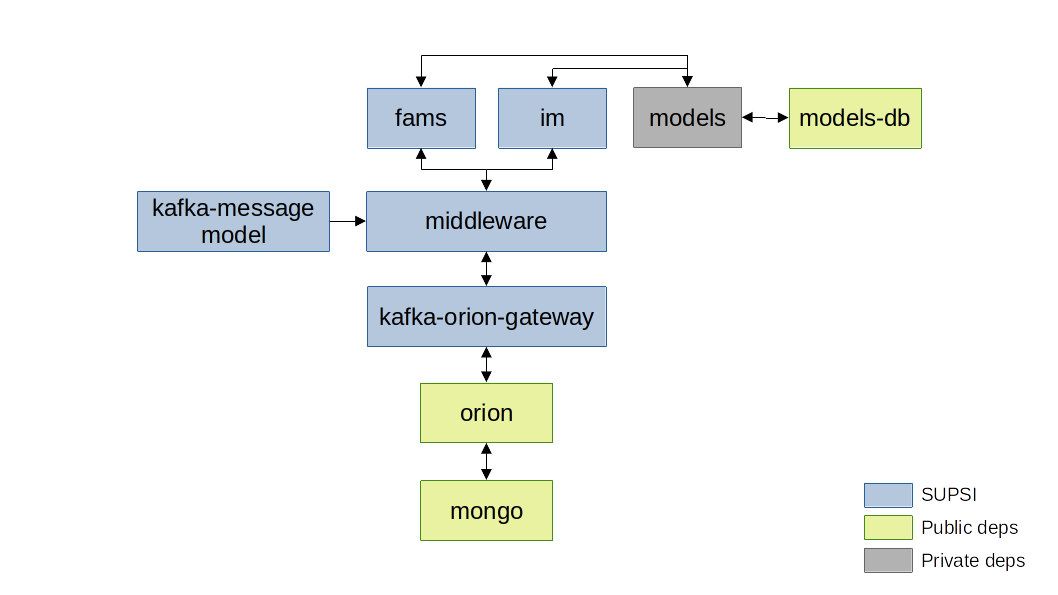
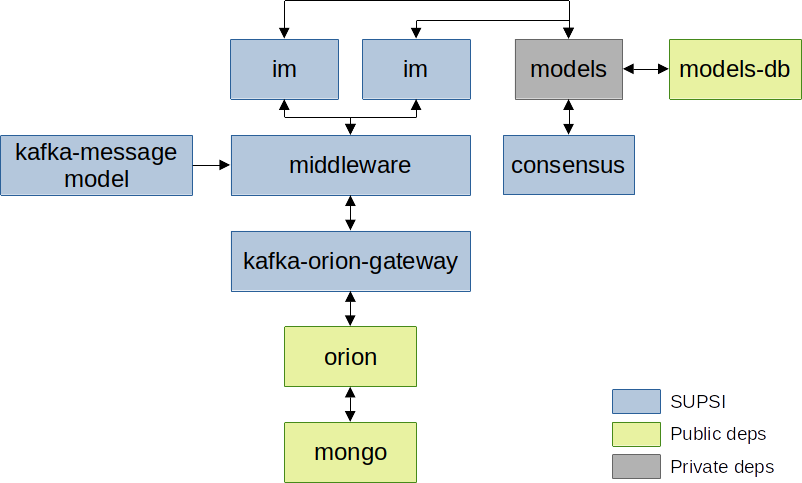
add the consensus module

Changed region(s): [[0.0, 0.0311, 1.0, 1.0], [0.7481, 0.8075, 0.9663, 0.9938]]

diff --git a/README.md b/README.md
@@ -32,6 +32,9 @@ A specific service subscribes a set of predefined topics in KB, then converts th
 
 At the same time, a REST controller is defined to receive notifications from OCB. All the notifications are converted into an Avro-serializable object and forwarded to dedicated KB topics.
 
+### consensus
+The *consensus* component downloads the worker responses collected with the "Consensus" questionnaire (GForm). Each response contains static data about the worker, which are pushed to the *models* component by means of its REST API. A cron job is exploited to download new responses.
+
 ### Dependencies
 
 #### middleware
@@ -92,16 +95,21 @@ We suggest the user to only modify variables listed in the `.env` file, if neede
 
 | Parameter name             | Parameter value | Default |
 | -------------------------- | --------------- | ------  |
-| BF_USER | A username shared by all the components | **bf** |
-| BF_PASSWORD | A password shared by all the components | **bf123** |
+| BF_USER | A username shared by all the components | **bfuser** |
+| BF_PASSWORD | A password shared by all the components | **bfpwd123** |
 | MODELS_MYSQL_DATABASE | Name of the database to store the shared model | **models**|
 | MODELS_MYSQL_ROOT_PASSWORD | Password for the root user in MySQL | **root** |
+| CREDENTIALS | A JSON file containing the Google Service account credentials to access the GForm responses. | **/app/service_account.json** |
+| SPREADSHEET | The name of the Google Spreadsheet containing the GForm responses. | **[BF] Worker Profiling (Risposte)** |
+| FIELDS_MAP | A JSON file providing the mapping between the GForm questions and the ConsensusWorker parameters | **/app/fields_map.json** |
 
 > NOTE: this repo contains submodules. Please run the following commands to fetch the submodules content, if needed:
 ```bash
 git submodule init
 git submodule update
 ```
+
+> NOTE: To download responses from the Google Spreadsheet, a JSON file containing the user credentials is needed. The file will be provided upon request.
 
 Run the **up** command to start all the containers:
 
